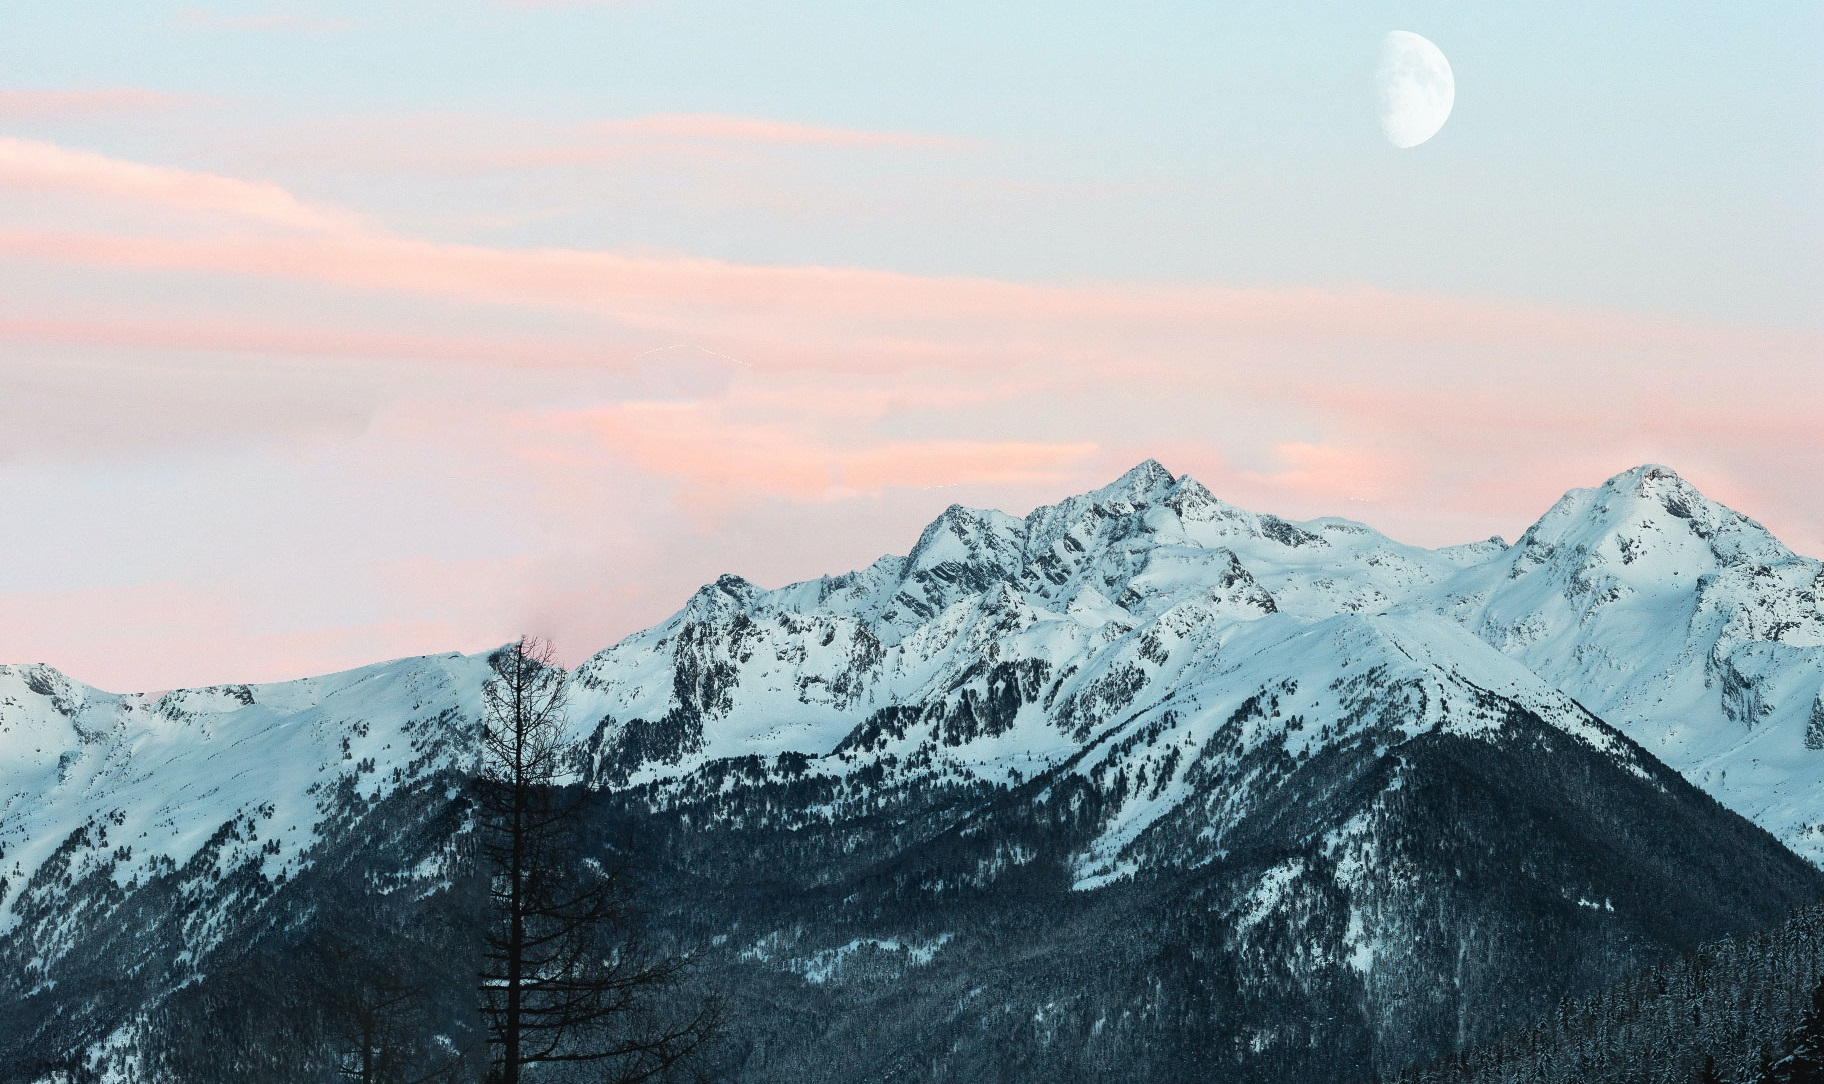
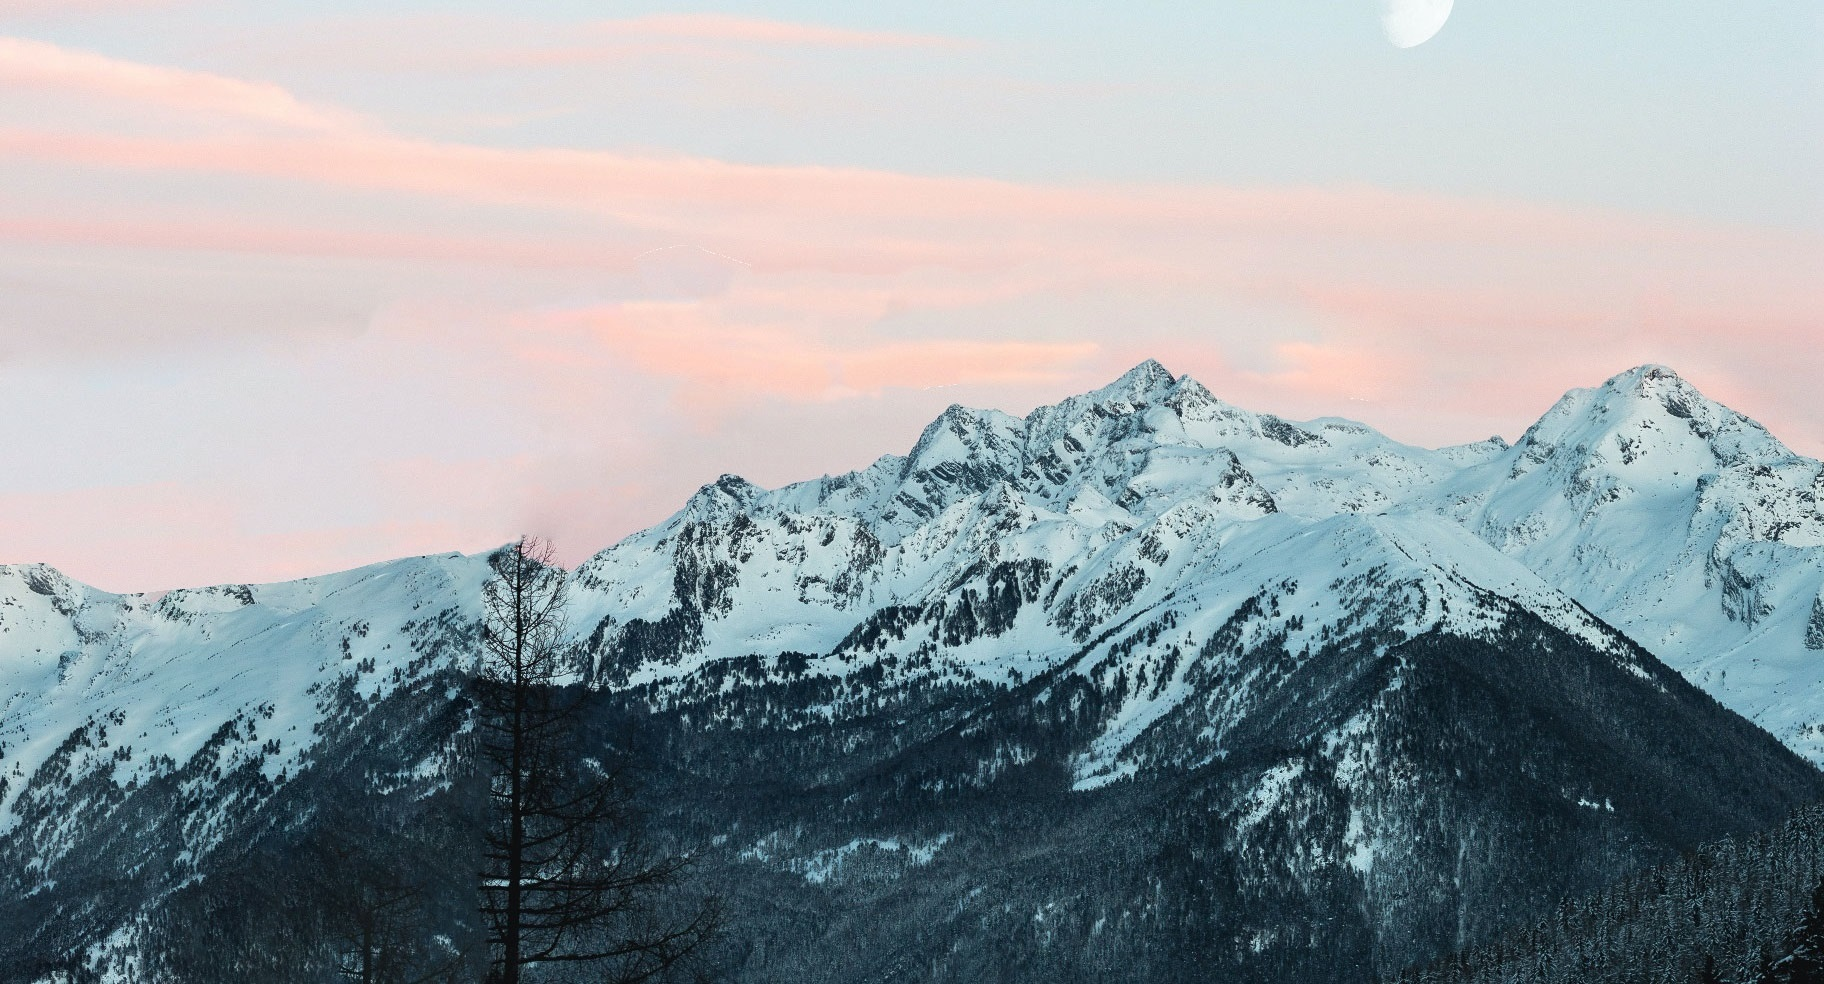
blur navbar + new background photo

diff --git a/assets/style.css b/assets/style.css
@@ -54,7 +54,9 @@ footer {
 
 
 
-
+.navbar {
+  backdrop-filter: blur(20px);
+}
 
 .thumbnail {
 	width: 400px;
